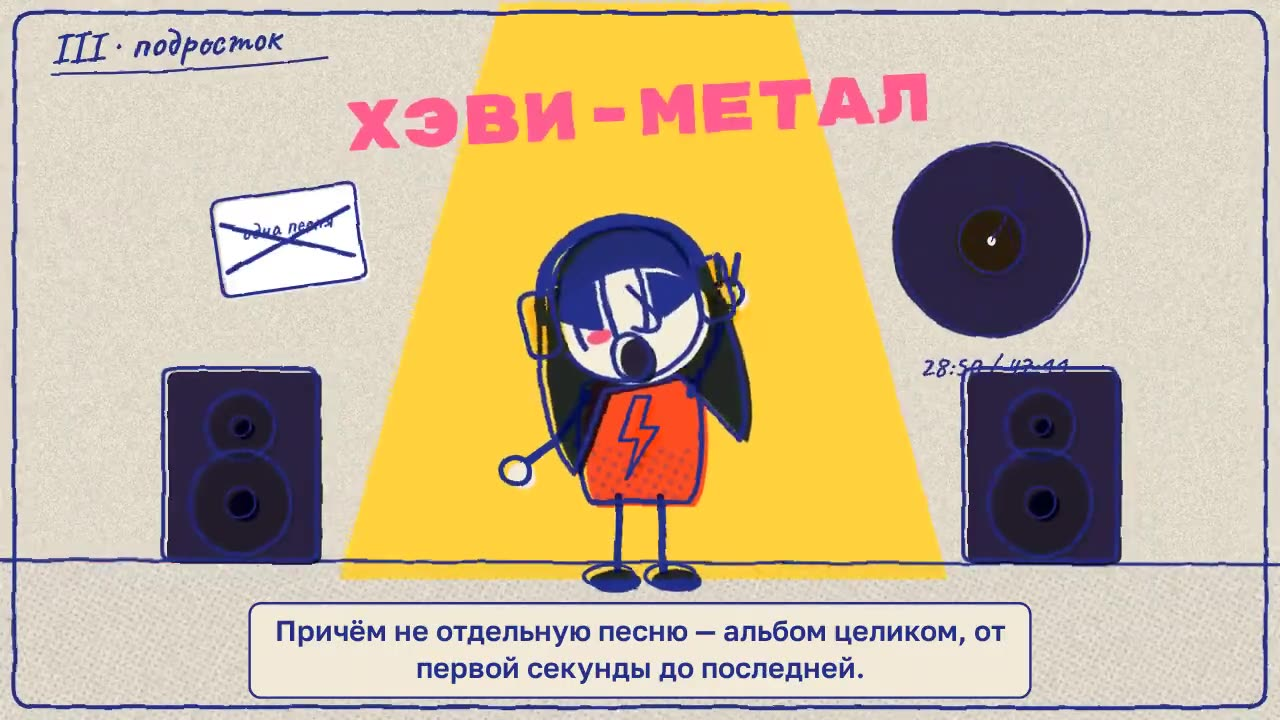
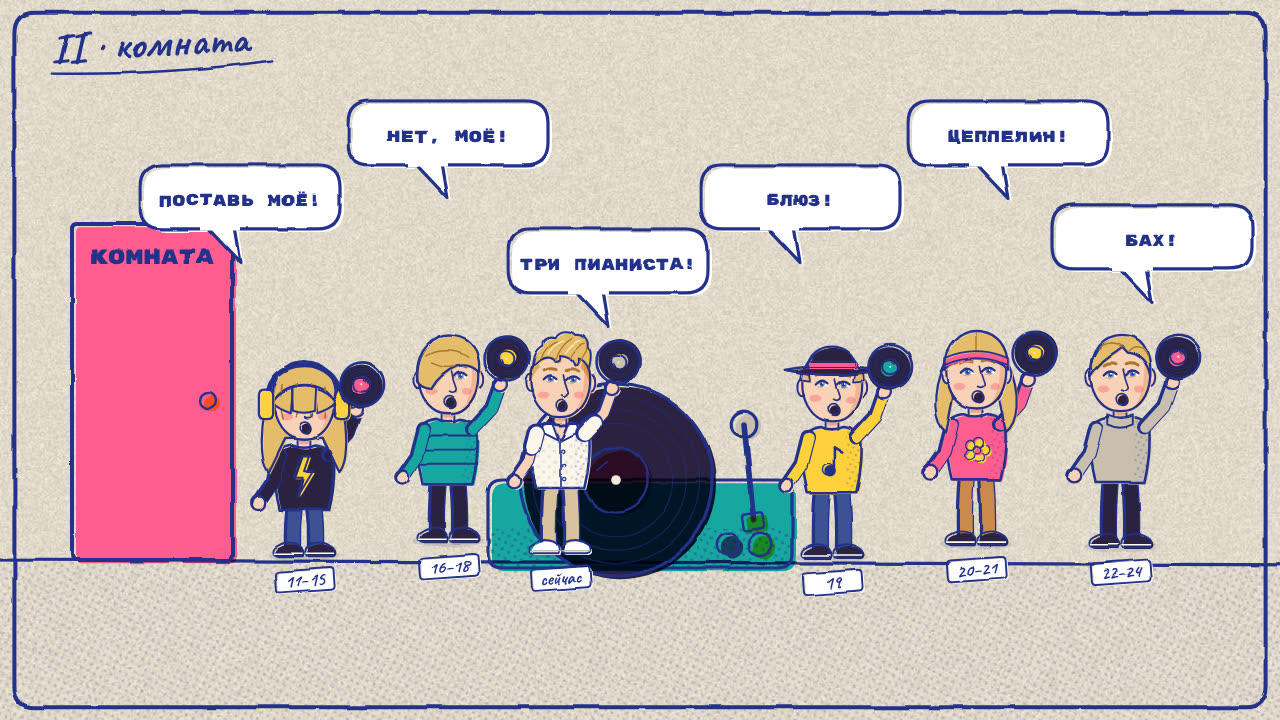
Главная: карточка фильма с кадром нового героя
Вместо маленькой кнопки — карточка с миниатюрой главы «комната», длительностью
и подписью; на телефоне во всю ширину. Обложка плеера — тот же кадр без
субтитров. Remotion: фильтр шумоподавления только в шаге кодирования, постер
снимается без субтитров.

Claude-Session: https://claude.ai/code/session_01AoLbQLXTsYFXUVGe2jn15e

diff --git a/docs/index.html b/docs/index.html
@@ -118,6 +118,18 @@ h1{font:500 clamp(64px,9vw,140px)/.86 var(--serif);letter-spacing:-.02em;margin:
 .btn[disabled]{opacity:.35;pointer-events:none}
 .btn .pl{width:0;height:0;border-left:10px solid currentColor;border-top:6px solid transparent;border-bottom:6px solid transparent}
 .btn small{font-size:12px;opacity:.6}
+.btns{align-items:center}
+.fcard{display:inline-flex;align-items:center;gap:14px;padding:6px 20px 6px 6px;border:1px solid var(--ink);border-radius:16px;background:var(--ink);color:var(--bg);font:inherit;text-align:left;cursor:pointer;transition:background .2s,transform .2s}
+.fcard:hover{background:#fff}
+.fcard:active{transform:scale(.98)}
+.fc-img{position:relative;flex:none;width:112px;height:63px;border-radius:11px;overflow:hidden;background:#f4ecd9}
+.fc-img img{display:block;width:100%;height:100%;object-fit:cover;transition:transform .5s cubic-bezier(.2,.7,.2,1)}
+.fcard:hover .fc-img img{transform:scale(1.07)}
+.fc-img .pl{position:absolute;left:50%;top:50%;width:30px;height:30px;margin:-15px 0 0 -15px;border-radius:50%;background:rgba(12,11,13,.78)}
+.fc-img .pl::after{content:"";position:absolute;left:12px;top:9px;border-left:9px solid #fff;border-top:6px solid transparent;border-bottom:6px solid transparent}
+.fc-t{display:flex;flex-direction:column;gap:5px}
+.fc-t b{font:600 15.5px/1.1 var(--sans)}
+.fc-t small{font-size:12.5px;opacity:.62}
 .side{font:600 12px/1 var(--sans);letter-spacing:.18em;text-transform:uppercase;display:flex;gap:12px;align-items:center;margin:0 0 14px}
 .side i{font-style:normal;display:inline-grid;place-items:center;min-width:34px;height:22px;padding:0 8px;border-radius:99px;background:var(--cc,var(--ink));color:var(--bg);letter-spacing:.06em}
 .side span{color:var(--ink2)}
@@ -326,6 +338,8 @@ h2{font:500 clamp(40px,4.4vw,64px)/.98 var(--serif);font-style:italic;margin:0 0
   .hero .lead{font-size:15.5px;margin-bottom:18px}
   .hero .kick{margin-bottom:10px}
   .hero .btn{padding:11px 16px;font-size:14px}
+  .fcard{width:100%;padding-right:14px}
+  .fc-img{width:96px;height:54px}
   .hint{font-size:12.5px;margin-top:14px}
   .num{font-size:52px}
   h2{font-size:38px}
@@ -368,7 +382,7 @@ h2{font:500 clamp(40px,4.4vw,64px)/.98 var(--serif);font-style:italic;margin:0 0
     <h1>Одна вещь</h1>
     <p class="lead">Моя музыкальная эволюция — от плейлиста «11–15» до сегодняшнего дня. Сторона&nbsp;А — обо мне. Сторона&nbsp;Б — о&nbsp;вас: сколько мне было, какая это эпоха и <em>как менялась музыка</em>.</p>
     <div class="btns">
-      <button class="btn pri" type="button" id="filmBtn"><i class="pl"></i>Смотреть фильм <small>2:50</small></button>
+      <button class="fcard" type="button" id="filmBtn" aria-label="Смотреть фильм, 2 минуты 50 секунд"><span class="fc-img"><img src="media/film-thumb.jpg" alt="" width="112" height="63" decoding="async"><i class="pl"></i></span><span class="fc-t"><b>Смотреть фильм</b><small>2:50 · рисованный, моим голосом</small></span></button>
       <a class="btn" href="#a0" id="needleBtn">Опустить иглу ↓</a>
     </div>
     <p class="hint" id="hint">Каждая точка — настоящая запись. Наведите, чтобы узнать какая; нажмите — зазвучит.</p>

diff --git a/src/index.html b/src/index.html
@@ -112,6 +112,18 @@ h1{font:500 clamp(64px,9vw,140px)/.86 var(--serif);letter-spacing:-.02em;margin:
 .btn[disabled]{opacity:.35;pointer-events:none}
 .btn .pl{width:0;height:0;border-left:10px solid currentColor;border-top:6px solid transparent;border-bottom:6px solid transparent}
 .btn small{font-size:12px;opacity:.6}
+.btns{align-items:center}
+.fcard{display:inline-flex;align-items:center;gap:14px;padding:6px 20px 6px 6px;border:1px solid var(--ink);border-radius:16px;background:var(--ink);color:var(--bg);font:inherit;text-align:left;cursor:pointer;transition:background .2s,transform .2s}
+.fcard:hover{background:#fff}
+.fcard:active{transform:scale(.98)}
+.fc-img{position:relative;flex:none;width:112px;height:63px;border-radius:11px;overflow:hidden;background:#f4ecd9}
+.fc-img img{display:block;width:100%;height:100%;object-fit:cover;transition:transform .5s cubic-bezier(.2,.7,.2,1)}
+.fcard:hover .fc-img img{transform:scale(1.07)}
+.fc-img .pl{position:absolute;left:50%;top:50%;width:30px;height:30px;margin:-15px 0 0 -15px;border-radius:50%;background:rgba(12,11,13,.78)}
+.fc-img .pl::after{content:"";position:absolute;left:12px;top:9px;border-left:9px solid #fff;border-top:6px solid transparent;border-bottom:6px solid transparent}
+.fc-t{display:flex;flex-direction:column;gap:5px}
+.fc-t b{font:600 15.5px/1.1 var(--sans)}
+.fc-t small{font-size:12.5px;opacity:.62}
 .side{font:600 12px/1 var(--sans);letter-spacing:.18em;text-transform:uppercase;display:flex;gap:12px;align-items:center;margin:0 0 14px}
 .side i{font-style:normal;display:inline-grid;place-items:center;min-width:34px;height:22px;padding:0 8px;border-radius:99px;background:var(--cc,var(--ink));color:var(--bg);letter-spacing:.06em}
 .side span{color:var(--ink2)}
@@ -320,6 +332,8 @@ h2{font:500 clamp(40px,4.4vw,64px)/.98 var(--serif);font-style:italic;margin:0 0
   .hero .lead{font-size:15.5px;margin-bottom:18px}
   .hero .kick{margin-bottom:10px}
   .hero .btn{padding:11px 16px;font-size:14px}
+  .fcard{width:100%;padding-right:14px}
+  .fc-img{width:96px;height:54px}
   .hint{font-size:12.5px;margin-top:14px}
   .num{font-size:52px}
   h2{font-size:38px}
@@ -362,7 +376,7 @@ h2{font:500 clamp(40px,4.4vw,64px)/.98 var(--serif);font-style:italic;margin:0 0
     <h1>Одна вещь</h1>
     <p class="lead">Моя музыкальная эволюция — от плейлиста «11–15» до сегодняшнего дня. Сторона&nbsp;А — обо мне. Сторона&nbsp;Б — о&nbsp;вас: сколько мне было, какая это эпоха и <em>как менялась музыка</em>.</p>
     <div class="btns">
-      <button class="btn pri" type="button" id="filmBtn"><i class="pl"></i>Смотреть фильм <small>2:50</small></button>
+      <button class="fcard" type="button" id="filmBtn" aria-label="Смотреть фильм, 2 минуты 50 секунд"><span class="fc-img"><img src="media/film-thumb.jpg" alt="" width="112" height="63" decoding="async"><i class="pl"></i></span><span class="fc-t"><b>Смотреть фильм</b><small>2:50 · рисованный, моим голосом</small></span></button>
       <a class="btn" href="#a0" id="needleBtn">Опустить иглу ↓</a>
     </div>
     <p class="hint" id="hint">Каждая точка — настоящая запись. Наведите, чтобы узнать какая; нажмите — зазвучит.</p>

diff --git a/tools/film/remotion.config.ts b/tools/film/remotion.config.ts
@@ -21,8 +21,8 @@ Config.setX264Preset("slow");
 Config.setPixelFormat("yuv420p");
 Config.setAudioBitrate("96k");
 Config.overrideFfmpegCommand(({ type, args }) => {
-  if (type !== "stitcher") return args;
+  // только шаг кодирования: в шаге faststart поток копируется, фильтр там нельзя
   const i = args.indexOf("-c:v");
-  if (i === -1) return args;
+  if (type !== "stitcher" || i === -1 || args[i + 1] !== "libx264") return args;
   return [...args.slice(0, i), "-vf", "hqdn3d=3:3:4:4", "-tune", "animation", ...args.slice(i)];
 });

diff --git a/docs/media/README.md b/docs/media/README.md
@@ -2,4 +2,5 @@
 
 - `film.mp4` — рисованный фильм «Моя музыкальная эволюция» (1280×720,
   H.264 + AAC, субтитры в кадре). Проект Remotion в `tools/film/`, см. README.
-- `film-poster.jpg` — кадр-обложка для плеера.
+- `film-poster.jpg` — кадр-обложка для плеера (глава «комната», без субтитров).
+- `film-thumb.jpg` — миниатюра того же кадра для карточки фильма на первом экране.
